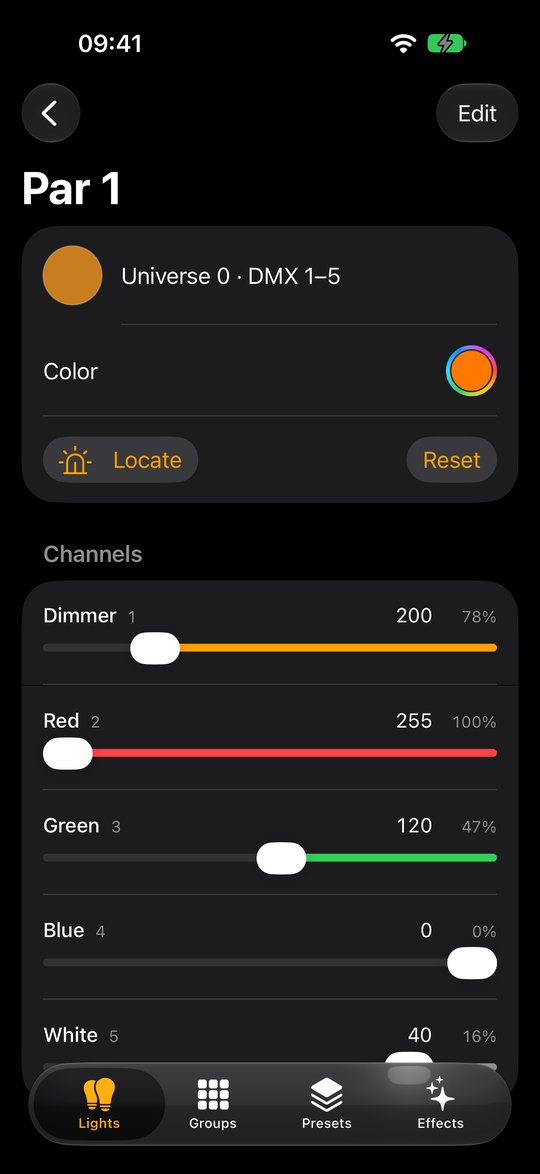
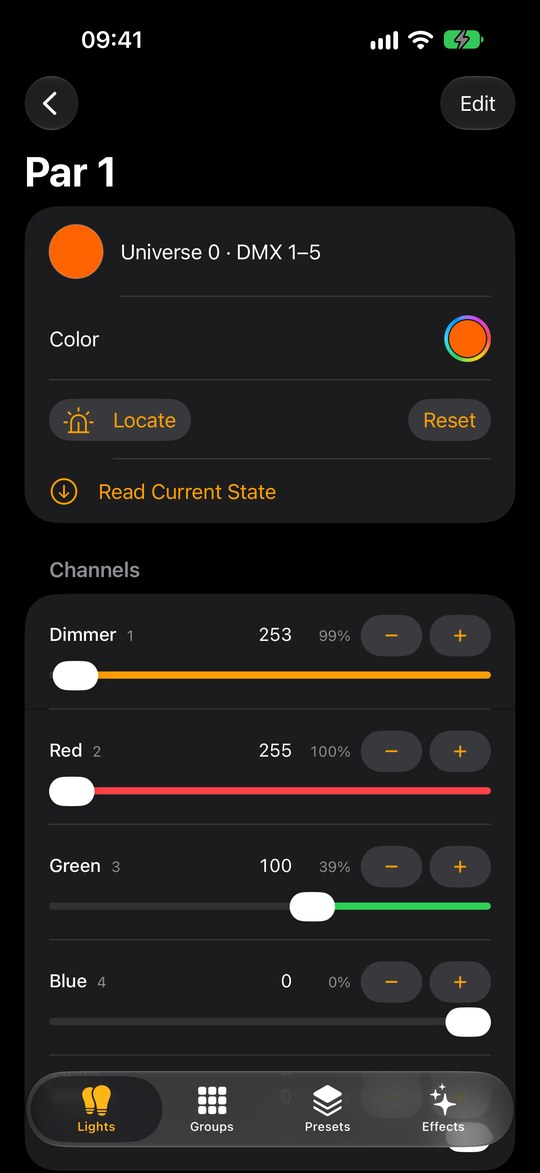
Manual: fine tuning faders with − / +

diff --git a/manual/index.html b/manual/index.html
@@ -249,7 +249,7 @@ html { scroll-behavior: smooth; }
           </ol>
           <h3>Controlling a light</h3>
           <ul>
-            <li><strong>Fader:</strong> sets the brightness. In the default right-handed layout, 0% is on the right.</li>
+            <li><strong>Fader:</strong> sets the brightness. In the default right-handed layout, 0% is on the right. For a precise level, tap the <strong>percentage</strong> next to it: <kbd>−</kbd> and <kbd>+</kbd> move it one step (of 255), and holding a button keeps stepping.</li>
             <li><strong>Round color button:</strong> opens the color window (chapter 03).</li>
             <li><strong>Tap the name:</strong> opens the light’s own screen with every channel.</li>
             <li><strong>Touch and hold the name:</strong> Edit, Duplicate, Move to Section, Move Up, Move Down, Arrange Lights…, Delete. Holding the fader never opens this menu, so you can’t trigger it by accident while fading.</li>
@@ -264,12 +264,26 @@ html { scroll-behavior: smooth; }
 
       <div class="shots">
         <figure>
-          <img src="img/light_detail.jpg" alt="Par 1 screen with Color, Locate, Reset and one slider per DMX channel" loading="lazy">
-          <figcaption>A light’s screen: every channel with its DMX address and value, plus Locate and Reset.</figcaption>
+          <img src="img/light_detail.jpg" alt="Par 1 screen with Color, Locate, Reset and one slider per DMX channel, each with minus and plus buttons" loading="lazy">
+          <figcaption>A light’s screen: every channel with its DMX address, value and <kbd>−</kbd> / <kbd>+</kbd>, plus Locate and Reset.</figcaption>
         </figure>
         <figure>
           <img src="img/light_menu.jpg" alt="Touch-and-hold menu on Par 2 with Edit, Duplicate, Move to Section and Delete" loading="lazy">
           <figcaption>Touch and hold a light’s name for its menu.</figcaption>
+        </figure>
+      </div>
+      <h3>Fine tuning</h3>
+      <div class="pair">
+        <div>
+          <p>Faders are quick but coarse under a finger. For an exact level:</p>
+          <ul>
+            <li><strong>On a light’s or group’s screen</strong>, every fader has <kbd>−</kbd> and <kbd>+</kbd> next to its value. Each tap moves it <strong>one step</strong> (a DMX value from 0 to 255); hold a button to keep stepping.</li>
+            <li><strong>In the Lights and Groups lists</strong>, tap the <strong>percentage</strong> next to a fader to open a small window with the exact value and <kbd>−</kbd> / <kbd>+</kbd>.</li>
+          </ul>
+        </div>
+        <figure>
+          <img src="img/fine_tune.jpg" alt="Fine-tune window over the Lights list showing Dimmer 255, 100%, with minus and plus buttons" loading="lazy">
+          <figcaption>Tap a fader’s percentage for one-step adjustment.</figcaption>
         </figure>
       </div>
       <p><strong>Reset</strong> puts every channel back to its default value. <strong>Delete</strong> always asks first with a red confirmation; deleting a light also removes it from groups, presets and effects.</p>
@@ -337,7 +351,7 @@ html { scroll-behavior: smooth; }
           <ol class="steps">
             <li>Tap <kbd>+</kbd>, name the group and tick its lights. <strong>All</strong> and <strong>None</strong> speed this up.</li>
             <li>Use the row’s fader and color button to set every light in the group at once.</li>
-            <li>Tap the group’s name for its screen: Color, Locate, Reset, one slider per attribute (dimmer, red, pan…) and the list of its lights.</li>
+            <li>Tap the group’s name for its screen: Color, Locate, Reset, one slider per attribute (dimmer, red, pan…) with <kbd>−</kbd> / <kbd>+</kbd> for fine tuning, and the list of its lights.</li>
           </ol>
           <ul>
             <li><strong>Touch and hold the name:</strong> Edit, Move Up, Move Down, Delete. Deleting a group never deletes its lights.</li>
@@ -545,6 +559,8 @@ html { scroll-behavior: smooth; }
             <tr><td>Tap a section name</td><td>Lights</td><td>Folds or opens it</td></tr>
             <tr><td>Tap <kbd>⋯</kbd> on a section</td><td>Lights</td><td>Add Light Here, Rename, Move, Delete</td></tr>
             <tr><td>Tap the round button</td><td>Anywhere</td><td>Color window</td></tr>
+            <tr><td>Tap a fader’s %</td><td>Lights, Groups</td><td>Fine-tune window</td></tr>
+            <tr><td>Tap or hold <kbd>−</kbd> / <kbd>+</kbd></td><td>Light and group screens</td><td>One step, or keep stepping</td></tr>
             <tr><td>Tap <kbd>Tap</kbd> in rhythm</td><td>Effect editor</td><td>Sets the speed</td></tr>
           </tbody>
         </table>
